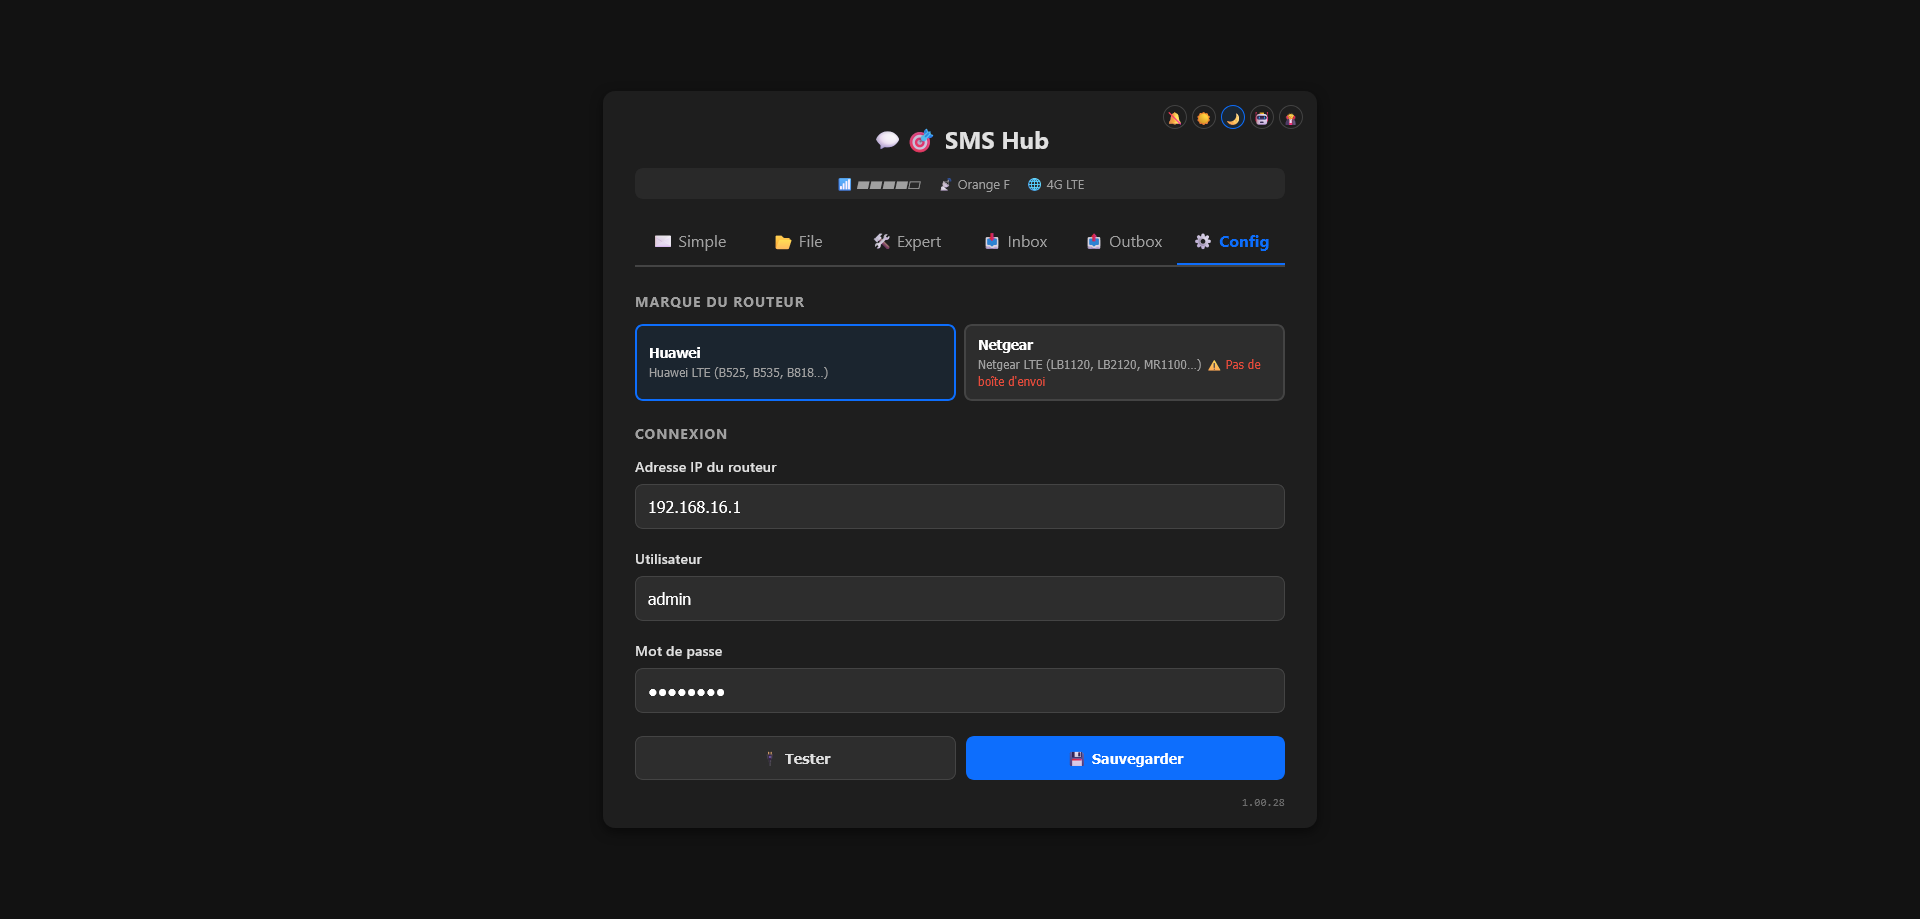
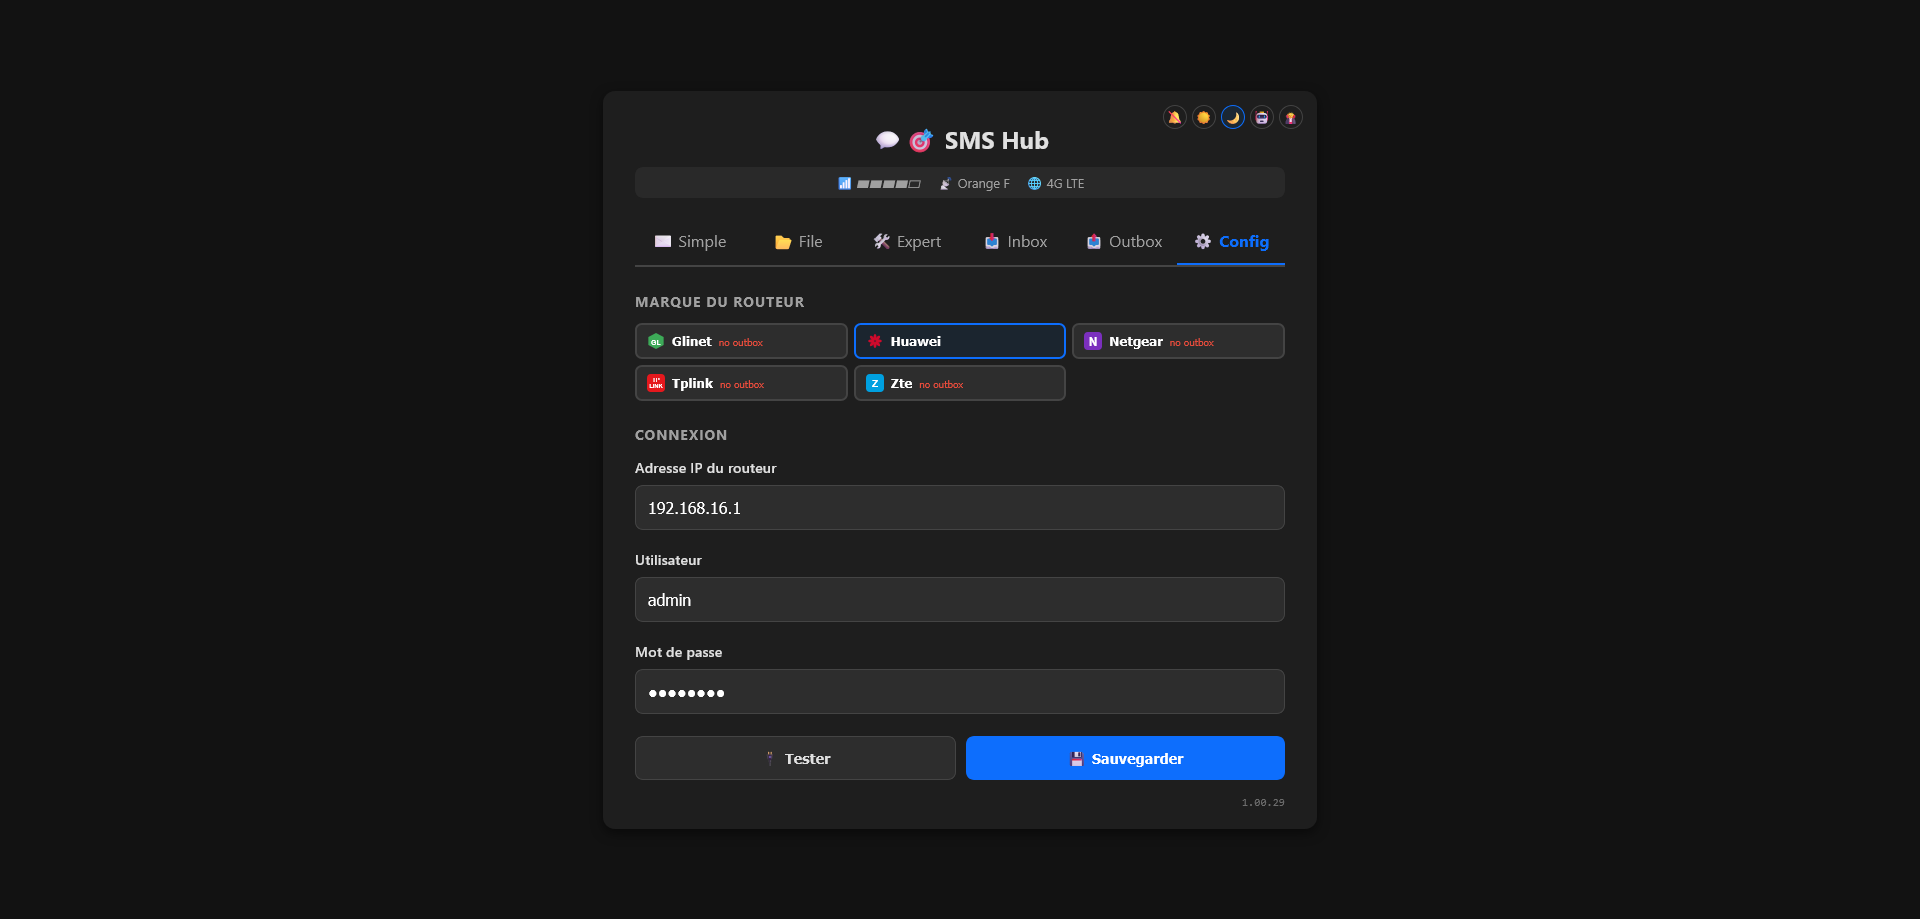
Bug fixes

diff --git a/README.md b/README.md
@@ -12,8 +12,8 @@ Interface web Flask pour envoyer et recevoir des SMS via un routeur **4G/5G** (H
 |--------------------|---------------|
 | ![Inbox](docs/inbox.png) | ![Outbox](docs/outbox.png) |
 
-| Configuration routeur |
-|-----------------------|
+| Configuration multi-routeurs |
+|------------------------------|
 | ![Config](docs/config.png) |
 
 ---